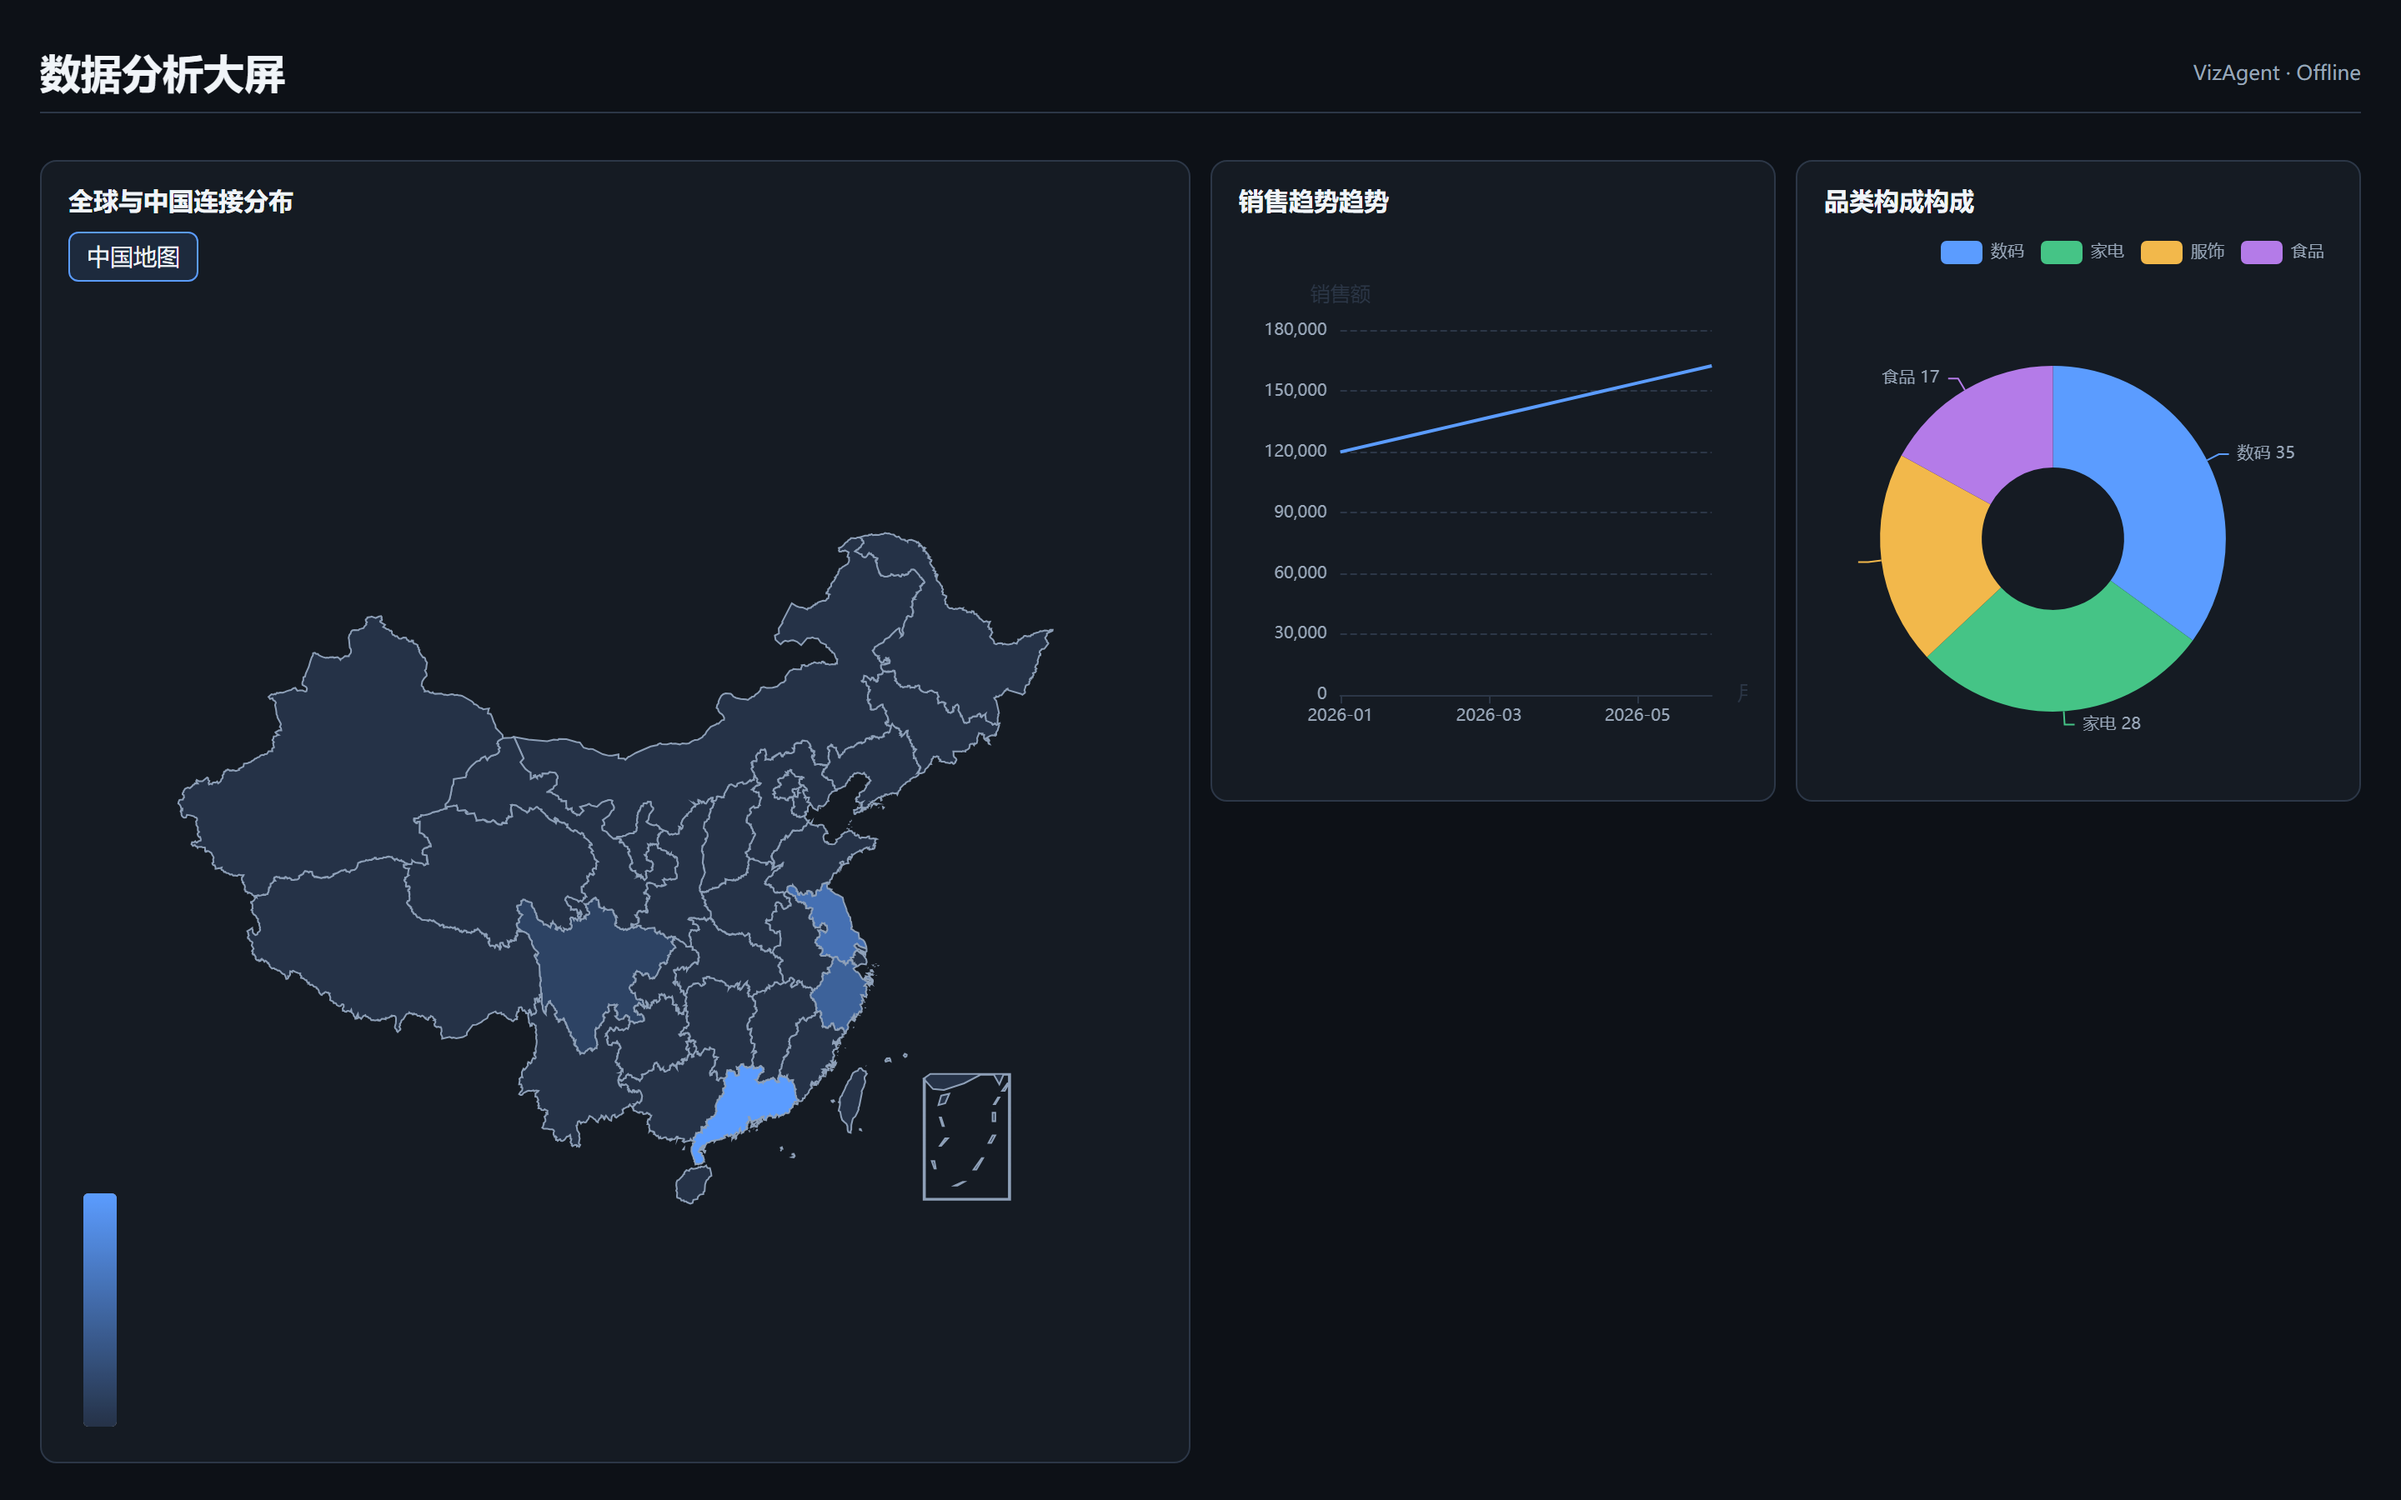
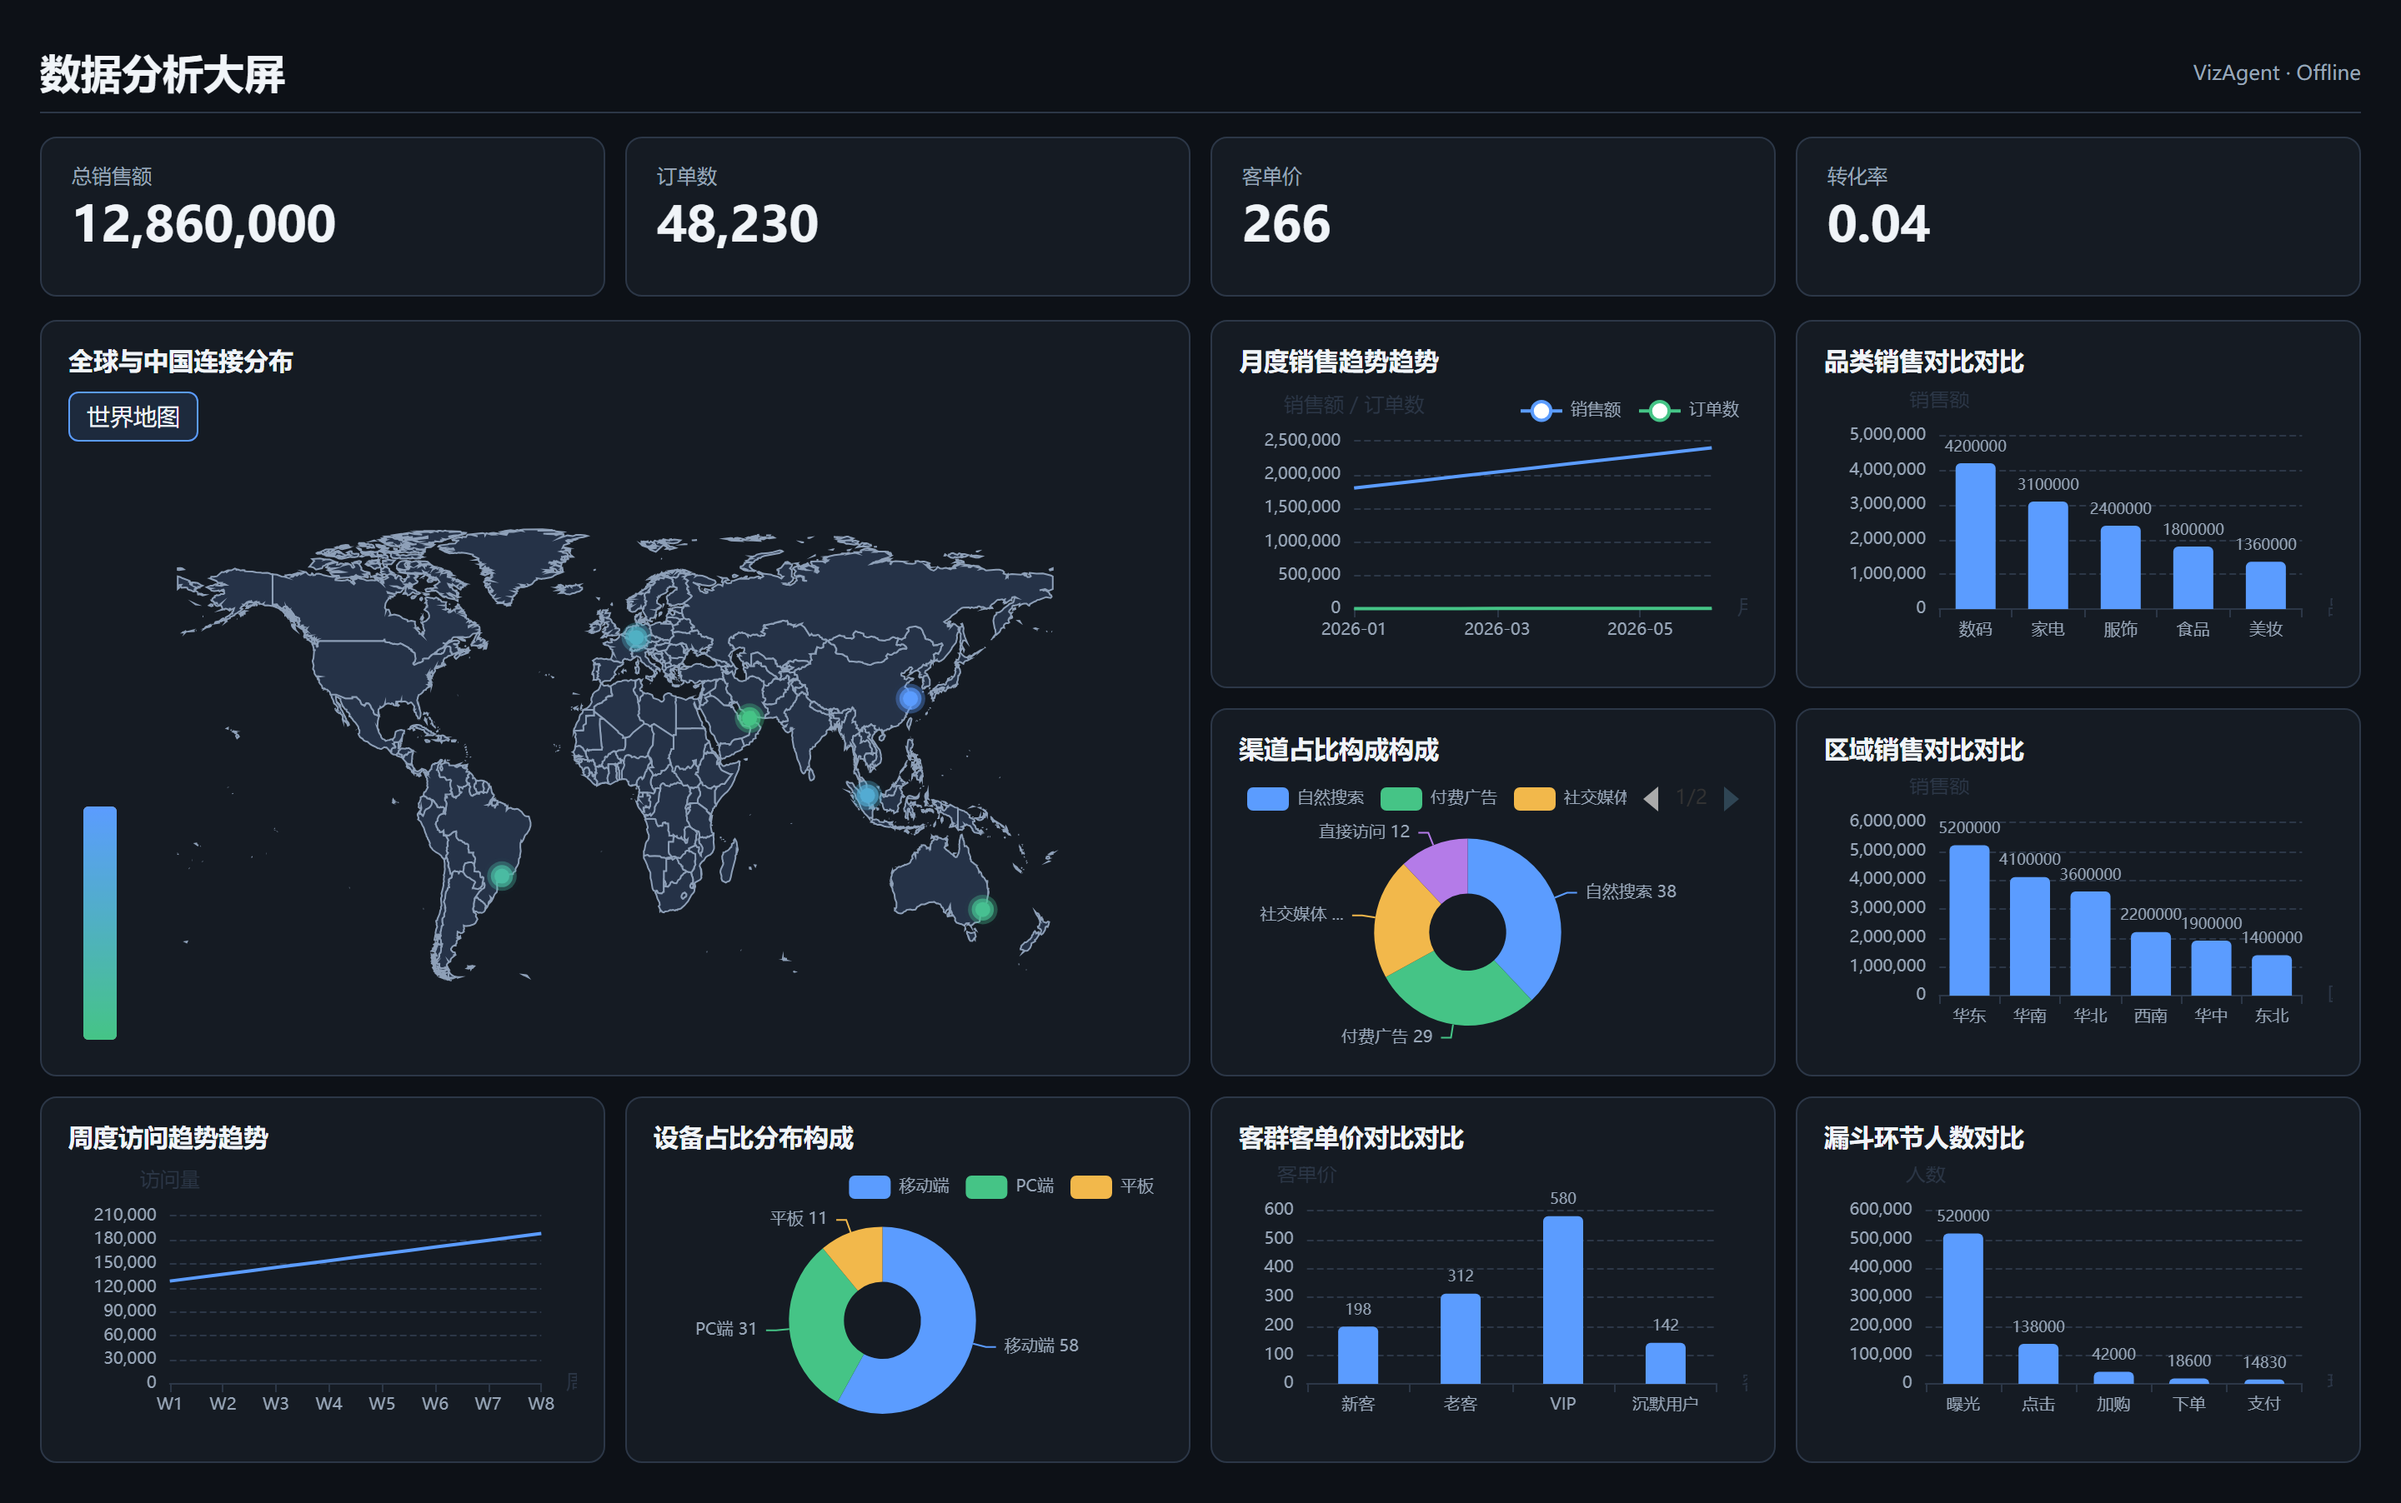
docs(skill): 丰富演示数据 — 4 KPI + 世界地图 + 8 图表自动生成
- examples/销售明细.xlsx：10 Sheet 合成数据（核心指标/全球站点/月度趋势/品类对比/渠道占比/区域对比/周度趋势/设备占比/客群客单价/漏斗）
- 自动模式（不写 requirement）实测产出：4 KPI + 1 世界地图 + 8 图表（2 折线/4 柱状/2 饼图），浏览器门禁 100/100
- docs/assets/demo.png 换为该复杂大屏全页截图；README 加「没有数据？用自带示例」指引

diff --git a/CHANGELOG.md b/CHANGELOG.md
@@ -7,7 +7,8 @@
 - **全中文**：去除中英文混杂，所有描述改中文（命令/技术术语保留英文）。
 - **场景故事开头**：以「老板要大屏」场景代入，直观展示「给数据自动出大屏」。
 - **requirement 定位澄清**：明确 `--requirement` 可选、默认自动分析；新增「关于需求参数」专节，回答「给了数据为何不能自动分析」——默认就是自动分析（日期→折线、地理→地图、占比→饼图），已用 3 表数据实测验证。
-- **新演示图**：`docs/assets/demo.png` 为真实自动生成的大屏截图（非手写 spec）。
+- **新演示图**：`docs/assets/demo.png` 为真实自动生成的大屏全页截图——4 KPI + 世界地图站点分布 + 8 图表（2 折线/4 柱状/2 饼图），由 10 个 Sheet 自动识别，浏览器门禁 100/100。
+- **示例数据**：新增 `examples/销售明细.xlsx`（10 Sheet 合成数据），用户克隆后可 `vizagent build --data examples/销售明细.xlsx` 复现 README 演示。
 
 ### PyPI 上线
 

diff --git a/README.md b/README.md
@@ -26,8 +26,12 @@ vizagent build --data 销售明细.xlsx
 <div align="center">
   <img src="docs/assets/demo.png" alt="vizagent-dashboard 自动生成的大屏" width="760">
   <br>
-  <sub>上图由 <code>vizagent build --data 销售明细.xlsx</code> 自动分析生成，未写任何需求或代码。</sub>
+  <sub>上图由 <code>vizagent build --data 销售明细.xlsx</code> 自动分析生成，未写任何需求或代码。<br>
+  4 个 KPI + 世界地图站点分布 + 8 张图表，全部来自 10 个 Sheet 的自动识别。</sub>
 </div>
+
+> 没有数据？仓库自带这份示例，克隆后直接跑：<br>
+> `vizagent build --data examples/销售明细.xlsx`
 
 ---
 
